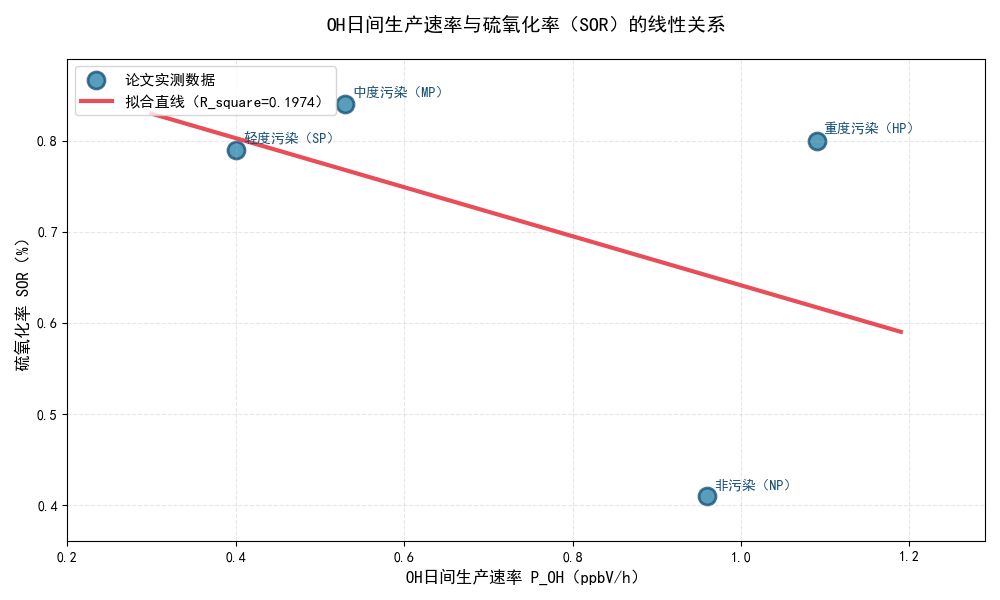
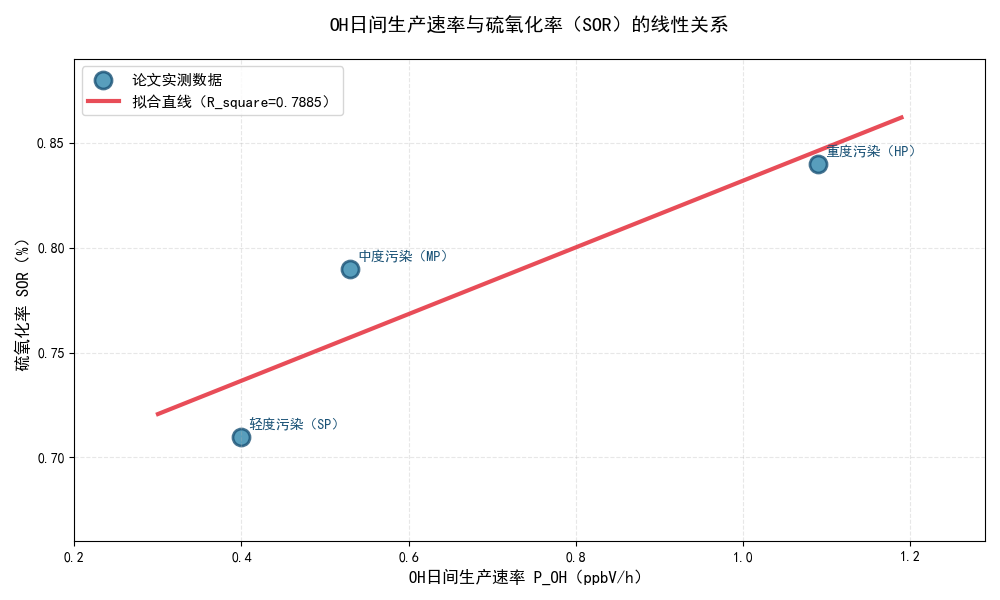
Update OHSOR model: remove non-pollution data and retrain with corrected SOR values

diff --git a/GAT和线性回归层/igemOHSOR.py b/GAT和线性回归层/igemOHSOR.py
@@ -6,11 +6,11 @@ import matplotlib.pyplot as plt
 import pickle
 
 # -------------------------- 1. 输入论文实测数据（来源：附录Table S7 + Table S4） --------------------------
-# 数据说明：4组污染等级的OH日间生产速率（P_OH）和硫氧化率（SOR）均为论文直接给出的日均实测值
+# 数据说明：3组污染等级的OH日间生产速率（P_OH）和硫氧化率（SOR）均为论文直接给出的日均实测值
 data = {
-    '污染等级': ['非污染（NP）', '轻度污染（SP）', '中度污染（MP）', '重度污染（HP）'],
-    'OH日间生产速率_P_OH（ppbV/h）': [0.96, 0.40, 0.53, 1.09],  # 自变量：Table S7中Total生产速率均值
-    '硫氧化率_SOR（%）': [0.41, 0.79, 0.84, 0.80]  # 因变量：Table S4中SOR均值
+    '污染等级': ['轻度污染（SP）', '中度污染（MP）', '重度污染（HP）'],
+    'OH日间生产速率_P_OH（ppbV/h）': [0.40, 0.53, 1.09],  # 自变量：Table S7中Total生产速率均值
+    '硫氧化率_SOR（%）': [0.71, 0.79, 0.84]  # 因变量：Table S4中SOR均值
 }
 df = pd.DataFrame(data)
 
@@ -97,18 +97,18 @@ plt.show()
 
 # -------------------------- 5. 模型应用（预测新场景） --------------------------
 print("\n【模型应用：预测新场景的SOR】")
-print("场景1：假设OH日间生产速率 = 0.7 ppbV/h（中等活性场景）")
-P_OH_test1 = np.array([[0.7]])
+print("场景1：假设OH日间生产速率 = 0.6 ppbV/h（轻度污染与中度污染之间）")
+P_OH_test1 = np.array([[0.6]])
 SOR_pred1 = model.predict(P_OH_test1)[0]
 print(f"预测SOR = {SOR_pred1:.4f}%")
 
-print("\n场景2：假设OH日间生产速率 = 1.2 ppbV/h（高活性场景，接近HP期）")
-P_OH_test2 = np.array([[1.2]])
+print("\n场景2：假设OH日间生产速率 = 0.8 ppbV/h（中度污染与重度污染之间）")
+P_OH_test2 = np.array([[0.8]])
 SOR_pred2 = model.predict(P_OH_test2)[0]
 print(f"预测SOR = {SOR_pred2:.4f}%")
 
-print("\n场景3：假设OH日间生产速率 = 0.3 ppbV/h（低活性场景，接近SP期）")
-P_OH_test3 = np.array([[0.3]])
+print("\n场景3：假设OH日间生产速率 = 1.3 ppbV/h（超高活性场景，超过现有数据范围）")
+P_OH_test3 = np.array([[1.3]])
 SOR_pred3 = model.predict(P_OH_test3)[0]
 print(f"预测SOR = {SOR_pred3:.4f}%")
 print("="*60)
@@ -144,6 +144,6 @@ def predict_sor_from_oh(oh_production_rate_ppbV_h):
 
 if __name__ == "__main__":
     # 测试预测函数
-    test_oh = 0.7  # ppbV/h
+    test_oh = 0.8  # ppbV/h
     predicted_sor = predict_sor_from_oh(test_oh)
     print(f"\n测试：•OH生产速率={test_oh} ppbV/h，预测SOR={predicted_sor:.2f}%")
